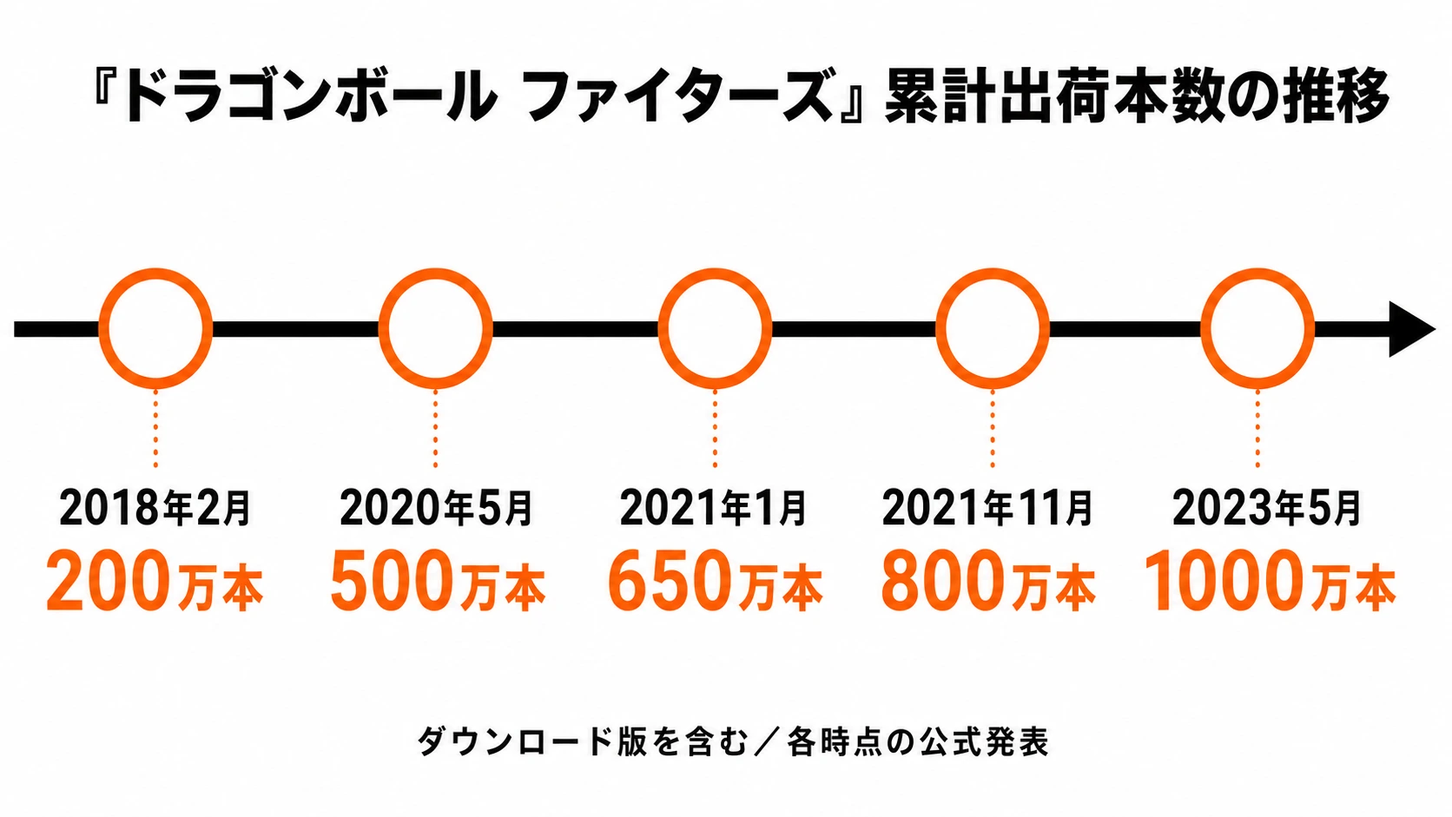
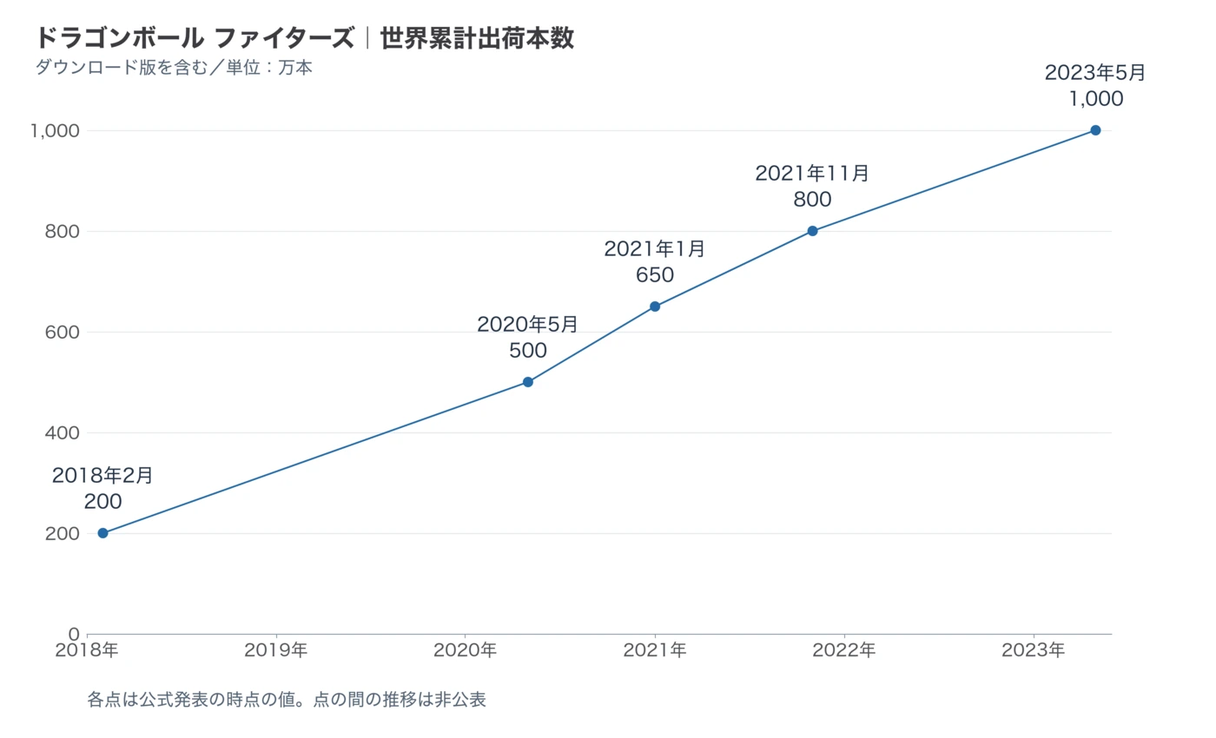
ドラゴンボール ファイターズの記事の改稿を掲載

diff --git a/dragon-ball-fighterz-arc-system-works-ip-adaptation-success-case-study.md b/dragon-ball-fighterz-arc-system-works-ip-adaptation-success-case-study.md
@@ -1,27 +1,21 @@
 ---
-description: "他メディアIPのゲーム化では、原作を知っていることと、原作らしく遊べることの間に大きな距離がある。キャラクターを3Dモデル化するだけでは、ファンが記憶している線、影、動き、そして戦いの速さは戻らない。"
+description: "『ドラゴンボール ファイターズ』が既存のセルルック制作基盤を原作再現へ転用し、3対3の競技性と簡略操作を両立させた設計を、販売推移とオンライン対戦の課題から読む。「他メディアIPのゲーム化 成功・失敗事例シリーズ」第5回。"
 category: ip-adaptation
 difficulty: yellow
 ---
 
 # 『ドラゴンボール ファイターズ』は、なぜ既存の表現基盤を大型IPの成功へ変えられたのか――技術転用と競技性から読む成功事例
 
-他メディアIPのゲーム化では、原作を知っていることと、原作らしく遊べることの間に大きな距離がある。キャラクターを3Dモデル化するだけでは、ファンが記憶している線、影、動き、そして戦いの速さは戻らない。2018年の『ドラゴンボール ファイターズ』（DRAGON BALL FighterZ）は、その距離を、アークシステムワークスが自社作品で積み上げてきた格闘ゲームの表現基盤によって縮めた事例である。
+> 2026年11月26日改版：The Game Awards 2018の受賞と累計出荷1,000万本到達時の発表を加え、図版を作り直して、最新の情報に更新しました。内容の変更はGitの履歴から追えます。
 
-本稿は「他メディアIPのゲーム化 成功・失敗事例シリーズ」の成功事例として、本作を扱う。『鬼滅の刃 ヒノカミ血風譚』が作品ごとのエフェクト制作とアニメ側の視覚資産との接続を重視したのに対し、本作の中心は別にある。『ギルティギア イグザード サイン』で確立した、3Dモデルを手描きセルアニメのように見せる方法を、ドラゴンボールの戦闘へ転用した点である。ただし、この技術と原作愛だけで完成した成功ではない。3対3の競技設計、初心者を入口へ通す操作、そして発売時のオンライン機能に残った課題まで含めて見る必要がある。
+「他メディアIPのゲーム化 成功・失敗事例シリーズ」の第5回である。前回の[『ザ・ロード・オブ・ザ・リング：ゴラム』は、なぜIPの「独自解釈」をゲームの価値へ変えられなかったのか――適性、ライセンス、実行力から読む失敗事例](lord-of-the-rings-gollum-daedalic-ip-adaptation-failure-case-study.md)では、ゴラムを主人公にした独自解釈を、プレイヤー自身の体験として届ける難しさを見た。
+
+孫悟空のかめはめ波を撃つと、カメラは対戦の横視点から、原作を思わせる角度へ寄る。その一瞬を、プレイヤーは試合のなかで自分の入力で呼び出す。『ドラゴンボール ファイターズ』（DRAGON BALL FighterZ）は、アークシステムワークスが開発し、バンダイナムコエンターテインメントが北中南米・欧州・東南アジアで2018年1月26日、日本を含むアジアのほかの地域で同年2月1日に発売した対戦格闘ゲームである。[[1](#ref-1)]
+
+シリーズの成功事例として、本稿では二つの点を軸に読む。『鬼滅の刃 ヒノカミ血風譚』が作品固有のエフェクト制作とアニメ側の視覚資産との接続を重視したのに対し、本作は『ギルティギア イグザード サイン』で実用化したシェーダー、モデル、リグ（モデルを動かす骨組み）、手作業のアニメーション調整を、一体の制作基盤として持ち込んだ。その画面で原作の共闘や必殺技を楽しむことと、勝つために編成や技の使いどころを考えることを、同じ3対3の対戦ルールに重ねた。初めての一戦を支えた簡略操作から、発売時に課題が残ったオンライン対戦への入り口までをたどる。
 
 ![『ドラゴンボール ファイターズ』公式キービジュアル。超サイヤ人孫悟空を中心にタイトルロゴを配したビジュアル](image/dragon-ball-fighterz-key-art.webp)
 *画像出典（引用）：バンダイナムコエンターテインメント「[ドラゴンボール ファイターズ](https://dbfz.bn-ent.net/)」。公式キービジュアルを、作品の題材を示すため必要な範囲で引用。画像内の権利表記を保持したままWebPへ変換。*
-
-## エグゼクティブサマリー
-
-『ドラゴンボール ファイターズ』は、バンダイナムコエンターテインメントが発売し、アークシステムワークスが開発した対戦格闘ゲームである。北中南米・欧州では2018年1月26日、日本・アジアでは同年2月1日に発売された。発売直後に世界累計出荷200万本を突破し、バンダイナムコエンターテインメントは当時、ドラゴンボールゲームシリーズ最速の到達と発表した。[[1](#ref-1)]
-
-成功の核は、借用IPのために表現技術をゼロから発明したことではない。アークシステムワークスは『ギルティギア イグザード サイン』で、手描きアニメーションを3Dで再現する手法を実用化していた。シェーダー、モデル、リグ、手作業のアニメーション調整を一体の制作基盤として持っていたからこそ、原作のカットを想起させる構図と、格闘ゲームに必要な即時入力を同じ画面で両立できた。
-
-その上に置かれたのが、3対3のチーム戦である。プレイヤーは好きなキャラクターを並べ、交代とアシストを使い、空中コンボからかめはめ波や元気玉へつなぐ。初心者にはボタン連打で成立する超コンボを用意しつつ、上級者にはアシスト、交代順、ゲージ、間合いを含むチーム単位の研究余地を残した。原作ファンサービスと競技性を、別モードへ分離せず、一つの対戦ルールに重ねた設計である。
-
-一方、発売時のオンラインロビーと対戦導線には批判もあった。商業的成功や高い批評スコアは、オンライン対戦を含む全体の体験が最初から欠点なく成立していたことを意味しない。IPゲームでは、象徴的な見た目を成功させるだけでなく、長期的に遊ばれる入口と接続品質まで、製品の中核として設計する必要がある。
 
 ***
 
@@ -29,21 +23,21 @@ difficulty: yellow
 
 アークシステムワークスは2014年の『ギルティギア イグザード サイン』で、シリーズ伝統の手描きアニメーションを3Dで再現する手法を取り入れた。同社はこの作品を、3Dセルルックの格闘ゲーム表現が自社の代名詞になった転機として位置づけている。[[2](#ref-2)]
 
-ここでいう基盤は、単一のセルシェーダーではない。セルシェーダーは、3Dモデルの明暗を段階的な色面として描き、アニメの塗りに近づける仕組みである。『ギルティギア イグザード サイン』の開発資料では、通常の光源計算だけに任せず、アーティストが法線や陰影を調整して画を作る方針が説明されている。キャラクターの動きも、補間に任せる範囲を絞り、アーティストが手作業で設定した。[[3](#ref-3)]
+制作基盤は、シェーダー、モデル、リグ、手作業のアニメーション調整を組み合わせたものだった。セルシェーダーは、3Dモデルの明暗を段階的な色面として描き、アニメの塗りに近づける仕組みである。『ギルティギア イグザード サイン』の開発資料では、アーティストが法線や陰影を調整し、光源計算で得られる画を仕上げる方針が説明されている。キャラクターの動きも、補間に任せる範囲を絞り、アーティストが手作業で設定した。[[3](#ref-3)]
 
-この手間は、3Dモデルを「どの角度から見ても正しい立体」にするためではなく、「その瞬間にアニメの一枚絵として見える画面」にするためのものだった。アニメでは、動きの全フレームを均等に描かず、ポーズを強調し、必要な箇所だけを動かすリミテッドアニメーションが用いられる。アークシステムワークスはリアルタイム再生の制約下で、この日本的なリミテッドアニメーションを作る方法を研究し、CEDECでも制作手法を共有している。[[4](#ref-4)]
+この手間が生きるのは、ポーズとカメラがそろい、3Dモデルがアニメの一枚絵に見える瞬間である。アニメでは、動きの全フレームを均等に描かず、ポーズを強調し、必要な箇所だけを動かすリミテッドアニメーションが用いられる。アークシステムワークスはリアルタイム再生の制約下で、この日本的なリミテッドアニメーションを作る方法を研究し、CEDECでも制作手法を共有している。[[4](#ref-4)]
 
-『ドラゴンボール ファイターズ』は、この土台を別の原作へ適用した。3Dのカメラを使えるため、孫悟空のかめはめ波やベジータのファイナルフラッシュで原作を思わせる角度へ寄れる。一方で、対戦中は入力、ヒット判定、画面外への移動、相手との距離が常に変わる。プリレンダー映像を差し込むだけでは、この条件を満たせない。基盤がリアルタイムの格闘ゲームとして既に鍛えられていたことが、IPの見た目を操作可能な体験へ変える前提になった。
+『ドラゴンボール ファイターズ』は、この土台を別の原作へ適用した。3Dのカメラを使えるため、孫悟空のかめはめ波やベジータのファイナルフラッシュで原作を思わせる角度へ寄れる。一方で、対戦中は入力、ヒット判定、画面外への移動、相手との距離が常に変わる。見せ場の演出も、刻々と変わる試合の状態に合わせて描く必要がある。基盤がリアルタイムの格闘ゲームとして既に鍛えられていたことが、IPの見た目を操作可能な体験へ変える前提になった。
 
-開発陣も本作のディレクターに、『ギルティギア イグザード』シリーズのテクニカルアーティストとして評価されていた本村・C・純也氏を据えたと語っている。バンダイナムコエンターテインメントとアークシステムワークスは、アニメファンと格闘ゲームファンの双方へ届くことを企画段階から目標にしていた。[[5](#ref-5)] これは、原作人気に合わせて得意な開発会社を選んだだけの話ではない。既にある表現パイプラインを、原作の何を見せるかという企画判断と接続したのである。
+開発陣も本作のディレクターに、『ギルティギア イグザード』シリーズのテクニカルアーティストとして評価されていた本村・C・純也氏を据えたと語っている。バンダイナムコエンターテインメントとアークシステムワークスは、アニメファンと格闘ゲームファンの双方へ届くことを企画段階から目標にしていた。[[5](#ref-5)] 開発チームの座組みには、既にある表現パイプラインと、原作の何を見せるかという企画判断の両方が反映されている。
 
 ### 『鬼滅の刃 ヒノカミ血風譚』との違いは、作り込む対象にある
 
-同じアニメIPの成功例でも、再現のための投資先は同じではない。『鬼滅の刃 ヒノカミ血風譚』のサイバーコネクトツーは、Unreal Engine 4上で内製ツールと複数のポストエフェクトを組み合わせ、呼吸の技などの画面効果を作品に合わせて作り込んだ。[[6](#ref-6)] 作品固有の水、炎、雷の密度を、ゲーム中のカメラと操作へ合わせ直す解法である。
+同じアニメIPの成功例でも、再現のために手間をかけた対象は作品ごとに異なる。シリーズ第3回の[『鬼滅の刃 ヒノカミ血風譚』は、なぜ急拡大したアニメIPをゲームへ着地させられたのか――協働とタイミングの成功事例](demon-slayer-hinokami-keppuutan-cyberconnect2-ip-adaptation-success-case-study.md)で見たとおり、同作のサイバーコネクトツーは、Unreal Engine 4上で内製ツールと複数のポストエフェクトを組み合わせ、呼吸の技などの画面効果を作品に合わせて作り込んだ。[[6](#ref-6)] 作品固有の水、炎、雷の密度を、ゲーム中のカメラと操作へ合わせ直す解法である。
 
-対して『ドラゴンボール ファイターズ』は、アークシステムワークスが自社の格闘ゲームで培ったセルルック、画面作り、リミテッドアニメーションの生産基盤を転用した。もちろん、孫悟空やフリーザのモデル、必殺技、演出は本作用に制作しなければならない。しかし開発の出発点は「このIPのために表現工程を新設する」ことではなく、「既存の表現工程で、このIPの顔をどこまで正確に出すか」だった。
+対して『ドラゴンボール ファイターズ』は、アークシステムワークスが自社の格闘ゲームで培ったセルルック、画面作り、リミテッドアニメーションの生産基盤を転用した。既存の表現工程を出発点に、孫悟空やフリーザのモデル、必殺技、演出を本作用に作り込み、原作らしい画と動きを詰めていった。
 
-プランナーにとって重要なのは、どちらが上かではない。原作の象徴が特定のエフェクトや撮影に集中しているなら、作品固有の表現へ制作資源を寄せる必要がある。反対に、開発会社が原作と相性のよい、実戦で検証済みの表現パイプラインを持つなら、基盤の再利用は品質と速度の両方で強い選択肢になる。ただし、再利用は原作への当てはめを省略する免罪符ではない。共通基盤であっても、原作固有のポーズ、カメラ、色、効果音との同期は個別に検証する必要がある。
+プランナーが見極めたいのは、原作の象徴を再現するにはどこに手間をかけるべきかである。原作の象徴が特定のエフェクトや撮影に集中しているなら、作品固有の表現へ制作資源を寄せる必要がある。反対に、開発会社が原作と相性のよい、実戦で検証済みの表現パイプラインを持つなら、基盤の再利用は品質と速度の両方で強い選択肢になる。共通基盤を使う場合も、原作固有のポーズ、カメラ、色、効果音との同期は個別に検証する必要がある。
 
 ![セルルックで描かれた超サイヤ人孫悟飯が、フリーザへZアシストとともにかめはめ波を放つゲーム画面](image/dragon-ball-fighterz-z-assist.webp)
 *画像出典（引用）：バンダイナムコエンターテインメント「[ドラゴンボール ファイターズ道場 其之二](https://dbfz.bn-ent.net/information/?p=165)」。セルルックのリアルタイム対戦画面を示すため必要な範囲で引用。©バード・スタジオ／集英社・東映アニメーション ©Bandai Namco Entertainment Inc.／WebP変換。*
@@ -52,44 +46,42 @@ difficulty: yellow
 
 ## 3対3で、原作の「共闘」と格闘ゲームの研究を重ねる
 
-本作は、各プレイヤーが3人のキャラクターを選んで戦うチーム戦を採用する。バンダイナムコエンターテインメントの公式説明は、交代、アシスト、3人同時の必殺技を含む3対3の戦略性を、2.5D表現と並ぶ特徴に挙げている。[[1](#ref-1)] キャラクターを一人ずつ鑑賞するだけでなく、「誰と誰を並べるか」をプレイヤーの選択にした点が重要である。
+本作は、各プレイヤーが3人のキャラクターを選んで戦うチーム戦を採用する。バンダイナムコエンターテインメントの公式説明は、操作するキャラクターの交代、控えが一時的に援護するアシスト、3人同時の必殺技を含む3対3の戦略性を、2.5D表現と並ぶ特徴に挙げている。[[1](#ref-1)] 「誰と誰を並べるか」までプレイヤーの選択にした点が重要である。
 
 原作ファンにとって、この編成は孫悟空、ベジータ、ピッコロを同じチームに置く遊びであり、原作では実現しない組み合わせの会話や共闘を想像する余地でもある。格闘ゲームのプレイヤーにとっては、前に出るキャラクター、援護に回すキャラクター、体力回復のための交代順を考えるシステムになる。開発陣も、キャラクターごとのアシスト性能とチーム全体の戦略を考える研究過程を、本作の醍醐味として説明している。[[7](#ref-7)]
 
-空中で追いかけ、コンボをつなぎ、相手を地面へ叩き付ける流れは、ドラゴンボールらしい高速戦闘の再現である。同時に、コンボの途中で誰を呼ぶか、どこで交代するか、ゲージを何に使うかという競技上の選択にもなる。かめはめ波や元気玉のような必殺技を、単発の鑑賞演出だけにしなかった点に、本作の設計上の強みがある。派手な技は試合の中で撃つ判断を伴い、結果が次の局面へ返ってくる。
+空中で追いかけ、コンボをつなぎ、相手を地面へ叩き付ける流れは、ドラゴンボールらしい高速戦闘の再現である。同時に、コンボの途中で誰を呼ぶか、どこで交代するか、必殺技などに使うゲージをどこで消費するかという競技上の選択にもなる。かめはめ波や元気玉も、この一連の判断のなかで使う必殺技である。派手な技は試合の中で撃つ判断を伴い、結果が次の局面へ返ってくる。
 
-キャラクターの採用基準も、単に知名度順ではなかった。開発陣は、人気だけでなく「ほかのキャラクターと差別化しやすいか」「個性的なバトルができるか」を重視したと説明している。[[5](#ref-5)] 大型IPでは、登場人物を多く出すこと自体が目標になりやすい。本作は、原作の顔ぶれを増やす判断を、チーム戦の役割や操作感と結び付けた。IP側の要求と競技側の要求を、キャラクター選定の同じ表に置いたのである。
+キャラクターの採用でも、原作での人気と試合での役割を合わせて考えた。開発陣は、「ほかのキャラクターと差別化しやすいか」「個性的なバトルができるか」を重視したと説明している。[[5](#ref-5)] 大型IPでは、登場人物を多く出すこと自体が目標になりやすい。本作は、原作の顔ぶれを増やす判断を、チーム戦の役割や操作感と結び付けた。IP側の要求と競技側の要求を、キャラクター選定の同じ表に置いたのである。
 
 ![ベジータがZチェンジで控えの孫悟空と交代するゲーム画面。両者の控えキャラクターと体力ゲージも表示されている](image/dragon-ball-fighterz-z-change.webp)
 *画像出典（引用）：バンダイナムコエンターテインメント「[ドラゴンボール ファイターズ道場 其之二](https://dbfz.bn-ent.net/information/?p=165)」。3対3の交代システムを示すため必要な範囲で引用。©バード・スタジオ／集英社・東映アニメーション ©Bandai Namco Entertainment Inc.／WebP変換。*
 
 ***
 
-## 簡略操作を「浅い別ルール」にしなかった
+## 簡略操作から、同じ対戦ルールに入る
 
-格闘ゲームは、原作ファンにとって操作の敷居が高くなりやすい。そこで本作は、ボタン連打で連続技へつながる超コンボ、相手へ接近しやすい超ダッシュ、比較的共通性の高い基本操作を用意した。開発陣は、超コンボが空振りでも次の技へつながり、技を出すたびに前進する仕組みを、初心者同士でも距離が開き過ぎないための工夫として説明している。[[8](#ref-8)]
+格闘ゲームは、原作ファンにとって操作の敷居が高くなりやすい。そこで本作は、ボタン連打で連続技へつながる超コンボ、相手へ接近しやすい超ダッシュ、比較的共通性の高い基本操作を用意した。開発陣は、超コンボが空振りでも次の技へつながり、技を出すたびに前進する仕組みを、初心者同士でも距離が開き過ぎないための工夫として説明している。[[7](#ref-7)]
 
-ただし、この簡略操作は、初心者専用の弱いルールではない。開発陣が目指したのは、全プレイヤーが同じ操作系で遊び、習熟に応じてできることが増える設計だった。アシスト、交代、空中での位置取り、ゲージ運用を理解するほど、同じ操作のなかで選択肢が広がる。[[8](#ref-8)]
+簡略操作は、上級者も使える共通の仕組みである。開発陣が目指したのは、全プレイヤーが同じ操作系で遊び、習熟に応じてできることが増える設計だった。アシスト、交代、空中での位置取り、ゲージ運用を理解するほど、同じ操作のなかで選択肢が広がる。[[7](#ref-7)]
 
-ここには、IPゲームでよく起こる二分法を避ける判断がある。原作再現を優先すると、誰でも派手な技が出せる一方で、上達の余地が薄くなりやすい。逆に競技性だけを優先すると、原作を知る新規プレイヤーが最初の一戦まで届かない。本作は、自動連携コンボを「見せ場を出すボタン」に留めず、近づく、当てる、次の判断をするという対戦の流れへ組み込んだ。
+ここには、IPゲームでよく起こる二分法を避ける判断がある。原作再現を優先すると、誰でも派手な技が出せる一方で、上達の余地が薄くなりやすい。逆に競技性だけを優先すると、原作を知る新規プレイヤーが最初の一戦まで届かない。本作の自動連携コンボでは、近づきながら技を当て、ヒットや空振りを見て次の行動を選ぶ。その流れのなかで原作らしい見せ場が生まれる。
 
-この設計の限界も忘れてはならない。簡略操作は、初心者が使える技の数を増やしても、読み合いの理由や敗因を自動的に理解させてはくれない。チュートリアル、練習モード、対戦相手の探しやすさ、負けた直後にもう一戦したいと思わせるオンライン導線まで、入口の設計は続く。本作のオンライン評価は、その後半が別の難題であったことを示す。
+簡略操作で使える技が増えると、次は相手の狙いを読み、なぜ負けたかをつかむ段階に入る。チュートリアル、練習モード、対戦相手の探しやすさ、負けた直後にもう一戦したいと思わせるオンライン導線まで、入口の設計は続く。本作のオンライン評価は、その後半が別の難題であったことを示す。
 
 ***
 
 ## 高評価と販売推移、そして発売時オンラインの課題
 
-批評面では、Metacriticの集計でPlayStation 4版が78件の批評に基づく87点、Xbox One版が86点、PC版が85点、Nintendo Switch版が87点となった。[[9](#ref-9)] 発売直後には、同集計における歴代ドラゴンボールゲーム最高評価として報じられた。[[10](#ref-10)] この高評価は、原作再現だけでなく、操作の入口とチーム格闘ゲームとしての深みが同時に受け止められた結果と読める。
+批評面では、Metacriticの集計でPlayStation 4版が78件の批評に基づく87点、Xbox One版が86点、PC版が85点、Nintendo Switch版が87点となった。[[8](#ref-8)] 発売を控えた2018年1月23日には、同集計における歴代ドラゴンボールゲーム最高評価として報じられた。[[9](#ref-9)] The Game Awards 2018では「Best Fighting Game」を受賞した。[[10](#ref-10)] この高評価は、原作再現だけでなく、操作の入口とチーム格闘ゲームとしての深みが同時に受け止められた結果と読める。
 
-![『ドラゴンボール ファイターズ』の機種別Metacriticスコア。PlayStation 4は87点（78件）、Xbox Oneは86点、PCは85点、Nintendo Switchは87点](image/dragon-ball-fighterz-metacritic-scores.webp)
+商業面では、発売直後の勢いに続き、約5年にわたって出荷を伸ばした。公式資料をたどると、2018年2月の200万本、2020年5月の500万本、2021年1月の650万本、同年11月の800万本、2023年5月の1,000万本と到達点が更新された。いずれもダウンロード版を含む累計出荷本数である。[[1](#ref-1)] [[11](#ref-11)] [[12](#ref-12)] [[13](#ref-13)] [[14](#ref-14)] 2023年5月の発表で、バンダイナムコエンターテインメントは、自社が発売した『DRAGON BALL』家庭用ゲームソフトのなかで、発売から世界累計出荷1,000万本に最も早く到達したと述べた。[[10](#ref-10)]
 
-商業面の推移も、初週の話だけではない。公式発表では、2018年2月の200万本、2020年5月の500万本、2021年1月の650万本、同年11月の800万本、2023年5月の1000万本と到達点が更新された。いずれもダウンロード版を含む累計出荷本数である。[[1](#ref-1)] [[11](#ref-11)] [[12](#ref-12)] [[13](#ref-13)] [[14](#ref-14)] 1000万本規模は、アークシステムワークスが手掛けた格闘ゲームとして過去最高水準の商業的到達であり、同社の歴代最高売上作として紹介されている。[[15](#ref-15)]
+![世界累計出荷本数の推移。2018年2月200万本、2020年5月500万本、2021年1月650万本、同年11月800万本、2023年5月1,000万本。年月の間隔に比例して配置し、点の間の推移は非公表](image/dragon-ball-fighterz-shipment-timeline.webp)
 
-![『ドラゴンボール ファイターズ』累計出荷本数の推移。2018年2月の200万本から、2023年5月の1000万本までの公式発表を時系列で示す](image/dragon-ball-fighterz-shipment-timeline.webp)
+対戦相手を見つけて試合を始めるまでの時間も、対戦ゲームを支える品質の一つである。発売時のレビューは、ロビーがメニューを兼ねる構成と、地域ごとに最大64人へ分かれる仕組みが待ち時間を長くし、対戦相手の母集団を細かく分断していると批判した。[[15](#ref-15)]
 
-しかし、成功を単純な礼賛へ変えてはならない。発売時のレビューは、ロビーがメニューを兼ねる構成と、地域ごとに最大64人へ分かれる仕組みが待ち時間を長くし、対戦相手の母集団を細かく分断していると批判した。[[16](#ref-16)] この問題は、対戦が面白いことと、対戦へすぐ到達できることが別の品質であると示している。
-
-この指摘は発売時点のオンライン体験に関するものである。後年には、PlayStation 5、Xbox Series X｜S、PC版を対象に、入力予測のずれを巻き戻して補正するロールバックネットコードが導入された。[[17](#ref-17)] したがって、発売時レビューを現在の全機種・全バージョンの評価へそのまま延長するべきではない。それでも、競技性を売りにする作品でオンライン基盤の改善が発売後の課題になった事実は残る。
+この指摘は発売時点のオンライン体験に関するものである。後年には、PlayStation 5、Xbox Series X｜S、PC版を対象に、入力予測のずれを巻き戻して補正するロールバックネットコードが導入された。[[16](#ref-16)] 発売時の対戦導線と後年の通信方式の更新は、競技性を売りにする作品で、オンライン体験の改善が発売後も続いたことを示している。
 
 ***
 
@@ -97,85 +89,99 @@ difficulty: yellow
 
 ### 1. ライセンス獲得の前に、再利用できる制作基盤を棚卸しする
 
-借用IPで最初に問うべきは、「人気があるか」だけではない。自社のモデル、アニメーション、シェーダー、カメラ、バトル設計の蓄積で、そのIPの最も重要な瞬間を再現できるかである。『ドラゴンボール ファイターズ』では、アークシステムワークスのセルルックとリミテッドアニメーションが、原作の戦闘表現と強く噛み合った。
+IPを借りる企画では、原作の人気とあわせ、自社のモデル、アニメーション、シェーダー、カメラ、バトル設計の蓄積で、そのIPの最も重要な瞬間を再現できるかを確かめる。『ドラゴンボール ファイターズ』では、アークシステムワークスのセルルックとリミテッドアニメーションが、原作の戦闘表現と強く噛み合った。
 
-これは制作を安く済ませるという意味ではない。基盤の再利用で節約できた時間と判断力を、原作固有の技、ポーズ、キャラクター間の掛け合い、バランス調整へ回せるという意味である。基盤とIPの相性が悪ければ、転用はかえって不自然さを増やす。まず「何が既存資産で、何が新規制作なのか」を分ける必要がある。
+基盤を再利用して生まれた時間を、原作固有の技、ポーズ、キャラクター間の掛け合い、バランス調整へ回せる。基盤とIPの相性が悪ければ、転用はかえって不自然さを増やす。まず「何が既存資産で、何が新規制作なのか」を分ける必要がある。
 
 ### 2. 原作再現を、対戦の意思決定へ戻す
 
-名場面をムービーとして再生するだけなら、原作再現とゲームプレイは分離する。本作は、3対3の編成、交代、アシスト、必殺技の連携を通じて、原作キャラクターを選ぶこと自体が勝敗に関わるようにした。ファンサービスは演出の量ではなく、プレイヤーの選択を変えるかどうかで測るべきである。
+名場面をムービーとして再生するだけなら、原作再現とゲームプレイは分離する。本作は、3対3の編成、交代、アシスト、必殺技の連携を通じて、原作キャラクターを選ぶこと自体が勝敗に関わるようにした。ファンサービスの手応えは、それがプレイヤーの選択をどう変えるかにも表れる。
 
 そのためには、原作上の人気とゲーム内の役割を別々に検討する必要がある。人気キャラクターでも、既存キャラクターと戦い方が重なるなら、アシスト、固有技、交代時の価値のいずれかを設計し直さなければならない。逆に、競技上の役割だけを優先して原作の顔を外せば、IPを借りる意味が薄くなる。
 
 ### 3. 初心者向け機能は、上達の道筋まで含めて設計する
 
-自動連携コンボは、初心者に一度だけ勝たせるための救済ではない。同じルールのなかで、最初の成功を作り、次に試すべき選択を見せる導線として機能する。本作のように基本操作を共通化するなら、簡略操作の先にアシスト、交代、ゲージといった理解可能な深みを置く必要がある。
+自動連携コンボは、同じルールのなかで最初の成功を作り、次に試せる選択を見せる。本作のように基本操作を共通化するなら、簡略操作の先にアシスト、交代、ゲージといった理解可能な深みを置く必要がある。
 
-そして、その道筋はオフラインだけで完結しない。特に対戦ゲームでは、対戦相手の見つけやすさ、待ち時間、通信品質、再戦のしやすさが、習熟の継続を左右する。バトルデザインとオンライン機能を別工程の付加要素として扱うと、入口だけを広げて、その先で顧客を失う危険がある。
+練習で覚えた技を対戦で試す段階では、対戦相手の見つけやすさ、待ち時間、通信品質、再戦のしやすさが、習熟の継続を左右する。バトルデザインとオンライン機能を別工程の付加要素として扱うと、入口だけを広げて、その先で顧客を失う危険がある。
 
 ***
 
-## おわりに：成功したのは、既存技術を原作へ当てたからではない
+## おわりに：培った表現基盤で、原作の共闘を対戦にする
 
-『ドラゴンボール ファイターズ』の成功は、「有名IP」と「高い技術力」を足せば再現できる公式ではない。アークシステムワークスは、手描きアニメーションの見え方を3Dのリアルタイム格闘ゲームで成立させる基盤を先に持っていた。そして、その基盤がドラゴンボールの高速戦闘、派手な必殺技、三人の共闘という原作の顔と噛み合うと判断し、競技ルールと操作の入口まで一つの製品へ組み込んだ。
+『ドラゴンボール ファイターズ』の出発点には、手描きアニメーションの見え方を3Dのリアルタイム格闘ゲームで成立させるアークシステムワークスの基盤があった。開発陣は、その基盤がドラゴンボールの高速戦闘、派手な必殺技、三人の共闘という原作の顔と噛み合うと判断し、競技ルールと操作の入口まで一つの製品へ組み込んだ。
 
-『鬼滅の刃 ヒノカミ血風譚』のように作品固有のエフェクトを深く作り込む成功もある。本作が示したのは、もう一つの道である。自社の表現基盤が原作の中心体験と一致するなら、それを転用し、個別制作を原作固有の価値へ集中させられる。ただし、見た目の成功は、オンライン対戦の到達性や長期運用の品質を代替しない。IPゲームを長く遊ばれる製品にするには、再現、競技、接続を同じ優先度で完成させる必要がある。
+『鬼滅の刃 ヒノカミ血風譚』のように作品固有のエフェクトを深く作り込む成功もある。本作が示したのは、もう一つの道である。自社の表現基盤が原作の中心体験と一致するなら、それを転用し、個別制作を原作固有の価値へ集中させられる。その戦いを繰り返し遊ぶには、対戦相手を見つけて、快適に試合を始められることも大切である。IPゲームを長く遊ばれる製品にするには、再現、競技、接続を同じ優先度で完成させる必要がある。
+
+次回の[『New ガンダムブレイカー』は、なぜ「ユーザーの声に応える刷新」を前作からの後退にしてしまったのか](new-gundam-breaker-crafts-meister-ip-adaptation-failure-case-study.md)では、シリーズの失敗事例として、刷新の判断を重ねるなかで前作の遊びを手放した例を扱う。
 
 ***
 
 ## References
 
-<a id="ref-1"></a>1. [「ドラゴンボール」ゲームシリーズ最速の累計出荷本数200万本を突破][1] - 発売地域・発売日、開発元、3対3の特徴、累計出荷200万本を記したバンダイナムコエンターテインメントの公式発表。
-
-<a id="ref-2"></a>2. [アークシステムワークス35年の歴史][2] - 2014年の『ギルティギア イグザード サイン』と、手描きアニメーションを3Dで再現する手法を同社が紹介したページ。
-
-<a id="ref-3"></a>3. [GDCの舞台で世界に披露された「GUILTY GEAR Xrd -SIGN-」の「アニメにしか見えない3Dグラフィックス」制作手法][3] - セルシェーダー、法線・陰影、手作業のアニメーション設定を開発者講演に基づき解説した記事。
-
-<a id="ref-4"></a>4. [GUILTY GEAR Xrd におけるリアルタイム・リミテッドアニメーション][4] - CEDEC 2015の講演概要。リアルタイムで日本的リミテッドアニメーションを表現する手法を示す。
-
-<a id="ref-5"></a>5. [「ドラゴンボール ファイターズ」開発陣インタビュー][5] - バンダイナムコエンターテインメントとアークシステムワークスの企画意図、技術体制、キャラクター選定を聞いたインタビュー。
-
-<a id="ref-6"></a>6. [サイバーコネクトツーのエフェクト開発事例][6] - 『鬼滅の刃 ヒノカミ血風譚』におけるUE4の内製ツールとポストエフェクトを解説した技術講演の記録。
-
-<a id="ref-7"></a>7. [「ドラゴンボール ファイターズ」開発陣インタビュー、2ページ目][7] - アシスト、チーム編成、交代を含む3対3の戦略性とバトル設計を開発陣が説明した記事。
-
-<a id="ref-8"></a>8. [「ドラゴンボール ファイターズ」開発陣インタビュー、2ページ目][8] - 超コンボ、共通操作、初心者と上級者を同じ操作系でつなぐ考え方を開発陣が説明した記事。
-
-<a id="ref-9"></a>9. [Dragon Ball FighterZ Reviews][9] - 各プラットフォーム版のMetascoreと批評件数の集計ページ。
-
-<a id="ref-10"></a>10. [Dragon Ball FighterZ is the Highest-Rated Dragon Ball Game Ever][10] - 発売直後のMetacritic集計に基づき、歴代ドラゴンボールゲーム最高評価と報じた専門メディアの記事。
-
-<a id="ref-11"></a>11. [500万本突破記念！ アイテムプレゼント][11] - 2020年5月時点で全世界累計出荷500万本突破を告知した公式サイトの記事。
-
-<a id="ref-12"></a>12. [DRAGON BALL Games Battle Hour発表][12] - 2021年1月時点で全世界累計出荷650万本と記したバンダイナムコエンターテインメントの発表。
-
-<a id="ref-13"></a>13. [「ドラゴンボール ファイターズ」世界累計出荷本数800万本突破][13] - 2021年11月の世界累計出荷800万本突破を告知したバンダイナムコエンターテインメントの公式発表。
-
-<a id="ref-14"></a>14. [1000万本突破記念！1000時間DLC無料開放キャンペーン][14] - 2023年5月時点で累計出荷1000万本突破を告知した公式サイトの記事。
-
-<a id="ref-15"></a>15. [Guilty Gear studio eyeing new crossovers with major Western IPs for next fighting game][15] - 『ドラゴンボール ファイターズ』をアークシステムワークスの歴代最高売上作として紹介したインタビュー記事。
-
-<a id="ref-16"></a>16. [Dragon Ball FighterZ review][16] - 発売時のオンラインロビー、待ち時間、対戦相手の母集団分断を指摘したレビュー。
-
-<a id="ref-17"></a>17. [DRAGON BALL FighterZ Rollback Netcode Update][17] - PlayStation 5、Xbox Series X｜S、PC版へのロールバックネットコード導入を告知した公式情報。
+<a id="ref-1"></a>1. [バンダイナムコエンターテインメント「2.5D表現による『ドラゴンボール』本格対戦格闘ゲーム『ドラゴンボール ファイターズ』 『ドラゴンボール』ゲームシリーズ 最速の累計出荷本数200万本を突破！」][1] — バンダイナムコエンターテインメント、2018年2月1日。発売日・地域、開発元、3対3の仕様を掲載。東南アジア地域の発売日は1月26日。
 
 [1]: https://bandainamcoent.co.jp/corporate/press/release/63/pdf/20180201-1.pdf
+
+<a id="ref-2"></a>2. [アークシステムワークス「アークシステムワークス35年の歴史」][2] — アークシステムワークス35周年特設サイト、公開日記載なし。2014年の項を参照。
+
 [2]: https://www.arcsystemworks.jp/35th/history/
+
+<a id="ref-3"></a>3. [4Gamer.net「GDCの舞台で世界に披露された『GUILTY GEAR Xrd -SIGN-』の『アニメにしか見えない3Dグラフィックス』制作手法」][3] — 4Gamer.net、2015年3月18日。
+
 [3]: https://www.4gamer.net/games/216/G021678/20150317055/
+
+<a id="ref-4"></a>4. [本村・C・純也「GUILTY GEAR Xrd におけるリアルタイム・リミテッドアニメーション」][4] — CEDiL、2015年（CEDEC 2015）。
+
 [4]: https://cedil.cesa.or.jp/cedil_sessions/view/1384
+
+<a id="ref-5"></a>5. [touge、ハメコ。「『ドラゴンボール ファイターズ』開発陣インタビュー。バンダイナムコエンターテインメント×アークシステムワークスが目指す“格闘ゲームの次のステージ”とは」][5] — 4Gamer.net、2017年12月15日。1ページ目。企画意図、技術体制、キャラクター選定。
+
 [5]: https://www.4gamer.net/games/384/G038402/20171211079/
+
+<a id="ref-6"></a>6. [wvigler「サイバーコネクトツーのエフェクト開発事例ーアニメ作品のビジュアル表現をUE4上で再現した内製ツールなどの技術解説〖UNREAL FEST 2022〗」][6] — ゲームメーカーズ、2022年8月11日。
+
 [6]: https://gamemakers.jp/article/2022_08_11_10558/
+
+<a id="ref-7"></a>7. [touge、ハメコ。「『ドラゴンボール ファイターズ』開発陣インタビュー。バンダイナムコエンターテインメント×アークシステムワークスが目指す“格闘ゲームの次のステージ”とは」][7] — 4Gamer.net、2017年12月15日。2ページ目。チームの編成と立ち回り、超コンボ、共通の操作系。
+
 [7]: https://www.4gamer.net/games/384/G038402/20171211079/index_2.html
-[8]: https://www.4gamer.net/games/384/G038402/20171211079/index_2.html
-[9]: https://www.metacritic.com/game/dragon-ball-fighterz/
-[10]: https://www.gamerevolution.com/news/364319-dragon-ball-fighterz-metacritic-is-the-highest-rated-dragon-ball-game-ever
+
+<a id="ref-8"></a>8. [Metacritic「Dragon Ball FighterZ Reviews」][8] — Metacritic、随時更新。各機種のMetascoreと批評件数。2026年11月26日確認。
+
+[8]: https://www.metacritic.com/game/dragon-ball-fighterz/
+
+<a id="ref-9"></a>9. [Paul Tamburro「Dragon Ball FighterZ is the Highest-Rated Dragon Ball Game Ever」][9] — GameRevolution、2018年1月23日。発売前のMetacritic集計に基づく報道。
+
+[9]: https://www.gamerevolution.com/news/364319-dragon-ball-fighterz-metacritic-is-the-highest-rated-dragon-ball-game-ever
+
+<a id="ref-10"></a>10. [ファミ通.com「『ドラゴンボール ゼノバース2』『ドラゴンボール ファイターズ』それぞれ世界累計出荷本数が1000万本を突破。特別なログインボーナスやDLC無料開放などのキャンペーンを実施」][10] — ファミ通.com、2023年5月13日。バンダイナムコエンターテインメントの発表を掲載。受賞および同社の家庭用『DRAGON BALL』タイトル内での到達記録。
+
+[10]: https://www.famitsu.com/news/202305/13302144.html
+
+<a id="ref-11"></a>11. [バンダイナムコエンターテインメント「5月21日(木) 『500万本突破記念！ アイテムプレゼント』実施のお知らせ」][11] — 『ドラゴンボール ファイターズ』公式サイト、2020年5月21日。
+
 [11]: https://dbfz.bn-ent.net/information/?p=997
+
+<a id="ref-12"></a>12. [バンダイナムコエンターテインメント「史上初！『DRAGON BALL』のあらゆる魅力を世界中に伝える全世界同時配信型オンラインイベント『DRAGON BALL Games Battle Hour』を開催！」][12] — バンダイナムコエンターテインメント、2021年2月4日。4ページ目に2021年1月の650万本到達を記載。
+
 [12]: https://www.bandainamco.co.jp/cgi-bin/releases/index.cgi/press/10155?entry_id=7064
+
+<a id="ref-13"></a>13. [バンダイナムコエンターテインメント「『DRAGON BALL(ドラゴンボール)』を題材にした家庭用ゲームソフト 『ドラゴンボール ゼノバース2』『ドラゴンボール ファイターズ』それぞれ世界累計出荷本数800万本突破！」][13] — バンダイナムコエンターテインメント、2021年11月。
+
 [13]: https://www.bandainamcoent.co.jp/corporate/press/top/single.html?q=phgOHLAbM
+
+<a id="ref-14"></a>14. [バンダイナムコエンターテインメント「1000万本突破記念！『1000時間DLC無料開放キャンペーン』開催のお知らせ」][14] — 『ドラゴンボール ファイターズ』公式サイト、2023年5月。
+
 [14]: https://dbfz.bn-ent.net/information/?p=2557
-[15]: https://www.dexerto.com/gaming/guilty-gear-studio-eyeing-new-crossovers-major-western-ips-next-fighting-game-1898541/
-[16]: https://www.digitaltrends.com/gaming/dragon-ball-fighterz-review/
-[17]: https://www.bandainamcoent.com/news/dragon-ball-fighterz-rollback-netcode-update
+
+<a id="ref-15"></a>15. [Mike Epstein「‘Dragon Ball FighterZ’ review」][15] — Digital Trends、ページ記載日2023年4月25日。発売時のオンライン対戦を扱うレビュー。
+
+[15]: https://www.digitaltrends.com/gaming/dragon-ball-fighterz-review/
+
+<a id="ref-16"></a>16. [Bandai Namco Entertainment America「DRAGON BALL FighterZ Rollback Netcode Update」][16] — Bandai Namco Entertainment America、2024年2月28日。
+
+[16]: https://www.bandainamcoent.com/news/dragon-ball-fighterz-rollback-netcode-update
 
 ----
 
